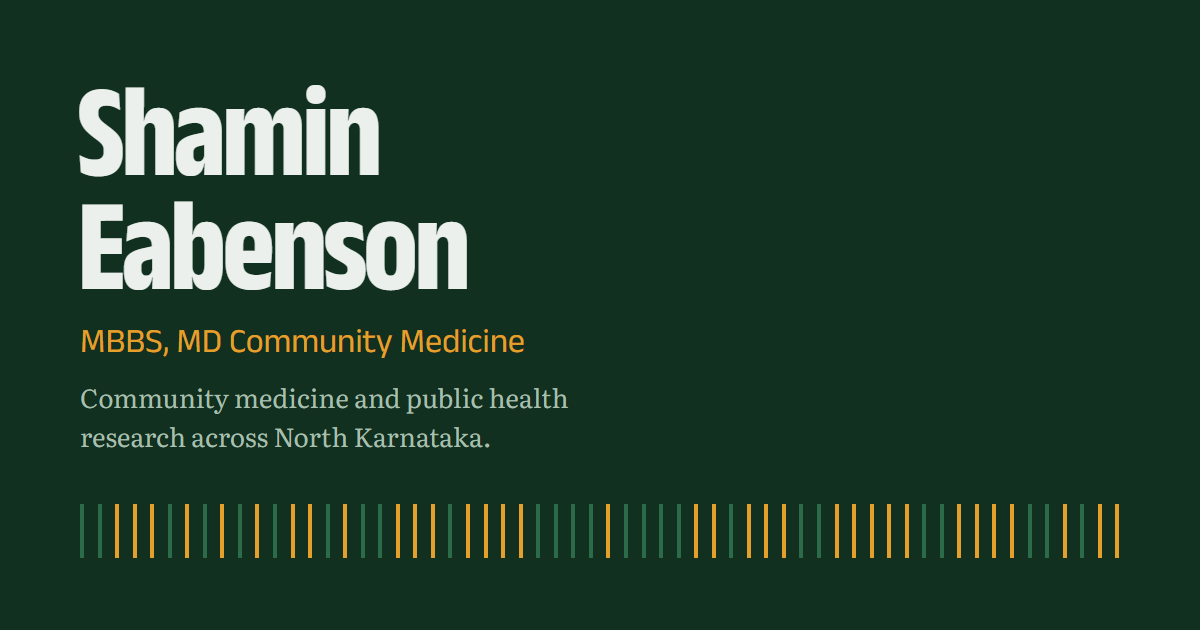
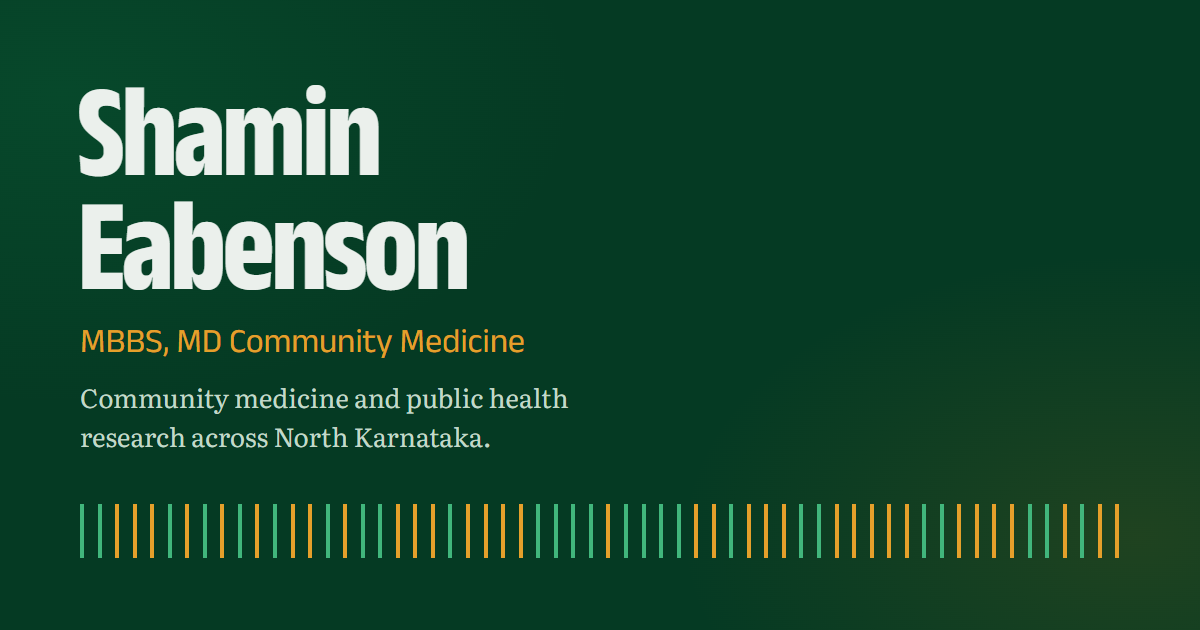
Richer royal green, per the client's 4 Oct review
He approved the green but asked for it saturated rather than muted — "royal
green, brilliant green, Rolex green". --field-deep goes #12301F to #053A23 and
--field #1E4A32 to #00663D, a shade brighter than Rolex's own #006039, which is
where it still clears 4.5:1 as a link colour on every pale ground.

Brightening the field broke three pairs that had been passing, and exposed a
fourth that had been failing unnoticed:

- --on-dark-soft fell to 3.6:1 on the new --field. Lightened to #C2D9C9.
- The aurora blooms washed marigold down to 3.7:1. Both reduced to 0.16.
- The unmarked tally strokes were already failing at 2.25:1 against the hero
  before this change, under the 3:1 a graphical object needs — and those strokes
  are the denominator of the 195, so they carry meaning. A single stroke colour
  cannot fix it, because the bloom is the same hue as the stroke and brightening
  the ground always erodes it. The strokes now take their colour from the ground
  the way the marked ones already did: --stroke-dark #41B67C on dark grounds,
  --field-lift on pale ones. 4.16:1 at the bloom's brightest point.

All 34 pairs re-measured, including every text and mark over each bloom at full
strength. Favicon, apple-touch-icon, og.png and theme-color regenerated, since
all three are built from the palette.

Also logs the rest of that review in REQUIREMENTS.md: he wants a dedicated
profiles page with screenshots of Google Scholar, ResearchGate and LinkedIn,
[…]

diff --git a/src/styles/tokens.css b/src/styles/tokens.css
@@ -12,16 +12,27 @@
    then this file alone. It has already changed once: the client
    has two other sites in blue, so this one is green.
 
-   Every pair below was measured, not eyeballed. Lowest ratios:
-   body 13.7:1, secondary prose 5.7:1, small meta 4.6:1,
-   graphical marks 3.6:1. Re-measure after any colour change.
+   All 34 pairs were measured, not eyeballed, including text and marks over
+   the aurora bloom at its brightest. Lowest ratios: body 11.1:1, secondary
+   4.7:1, small meta 4.6:1, graphical marks 3.2:1.
+   Re-measure every pair after any colour change — brightening the field
+   broke three of them last time.
    ============================================================ */
 :root {
   /* --- colour ------------------------------------------------ */
-  /* Primary hue — green. Carries the masthead, hero and footer. */
-  --field-deep: #12301f; /* hero, masthead, footer */
-  --field: #1e4a32; /* structural field, row hovers, buttons */
-  --field-lift: #2c6b49; /* unmarked tally strokes, hover lift */
+  /* Primary hue — green. Carries the masthead, hero and footer.
+     Saturated rather than muted, at the client's request: he asked for a
+     royal / Rolex green, not a forest one. #00663D sits a shade brighter
+     than Rolex's own #006039, which is where it still clears 4.5:1. */
+  --field-deep: #053a23; /* hero, masthead, footer */
+  --field: #00663d; /* structural field, row hovers, buttons */
+
+  /* Tally strokes need a different value on each ground, and the dark one
+     has to survive the aurora bloom passing beneath it. A single value
+     cannot: the bloom is the same hue as the stroke, so brightening the
+     ground always erodes it. Measured at the bloom's brightest point. */
+  --field-lift: #119455; /* unmarked stroke on PALE grounds — 3.2:1 on mint */
+  --stroke-dark: #41b67c; /* unmarked stroke on DARK grounds — 4.2:1 under bloom */
 
   /* Pale grounds. Light sections alternate between these instead of every
      one being identical plaster. */
@@ -40,7 +51,9 @@
   --text-mute: #586b61; /* 4.6:1 on the DARKEST pale ground (mint), so it
                             clears 4.5 on all four: mint, sand, plaster, raised */
   --on-dark: #ebf0ec;
-  --on-dark-soft: #a6bfae; /* secondary text on the green grounds */
+  --on-dark-soft: #c2d9c9; /* secondary on the green grounds — lightened when
+                              the field brightened; the old #A6BFAE fell to
+                              3.6:1 on the new --field */
   --rule: #cdd0c7;
   --rule-soft: #dcdfd6;
 
@@ -97,8 +110,8 @@
 
   /* Shadows are tinted with the page's own green rather than neutral black,
      which is what stops them reading as the default grey drop shadow. */
-  --shadow: 0 1px 2px rgba(18, 48, 31, 0.04), 0 10px 28px -14px rgba(18, 48, 31, 0.16);
-  --shadow-lift: 0 2px 4px rgba(18, 48, 31, 0.05), 0 18px 40px -16px rgba(18, 48, 31, 0.22);
+  --shadow: 0 1px 2px rgba(5, 58, 35, 0.05), 0 10px 28px -14px rgba(5, 58, 35, 0.18);
+  --shadow-lift: 0 2px 4px rgba(5, 58, 35, 0.06), 0 18px 40px -16px rgba(5, 58, 35, 0.24);
 
   /* --- motion ------------------------------------------------ */
   /* One orchestrated page-load moment. Nothing animates on scroll. */

diff --git a/src/styles/global.css b/src/styles/global.css
@@ -189,12 +189,14 @@ p {
   /* Opacity is capped by contrast, not by taste. At 0.55 the centre of the
      green bloom lightened the ground enough to drop marigold text to 4.15:1,
      under the 4.5 minimum — and marigold carries his post-nominals and the
-     "111 of the 195" figure. At 0.36 / 0.22 the worst point holds 4.85:1.
-     Raising these values means re-checking that number by hand — automated
-     contrast tools read background-color and cannot see a gradient. */
+     "111 of the 195" figure. The greens brightened, so these came down to
+     0.16: at the bloom's brightest point marigold holds 4.77:1 and the
+     unmarked tally strokes 4.16:1. Raising them means re-checking both by
+     hand — automated contrast tools read background-color and cannot see a
+     gradient. */
   background:
-    radial-gradient(38% 44% at 22% 28%, rgba(44, 107, 73, 0.36), transparent 70%),
-    radial-gradient(34% 40% at 78% 72%, rgba(169, 112, 15, 0.22), transparent 70%);
+    radial-gradient(38% 44% at 22% 28%, rgba(17, 148, 85, 0.16), transparent 70%),
+    radial-gradient(34% 40% at 78% 72%, rgba(169, 112, 15, 0.16), transparent 70%);
   will-change: transform;
 }
 @media (prefers-reduced-motion: no-preference) {

diff --git a/REQUIREMENTS.md b/REQUIREMENTS.md
@@ -5,7 +5,7 @@ something new comes back from the client, move it out of §3 and into whichever
 section it unblocks. This file and `CLAUDE.md` are the project's memory — if a
 decision is not written down in one of them, it did not happen.
 
-Last updated: **19 September 2026**
+Last updated: **4 October 2026**
 Status: **deployed to Vercel, DNS pending client confirmation**
 
 ---
@@ -31,6 +31,9 @@ Status: **deployed to Vercel, DNS pending client confirmation**
 
 ## 2. Content and design
 
+- [x] **Royal green** — client approved the green but asked for it richer
+      ("royal / brilliant / Rolex green", WhatsApp 4 Oct). Now `#053A23` /
+      `#00663D`. Brand assets regenerated to match — *4 Oct 2026*
 - [x] Pale palette — green is the only dark field; light sections alternate
       plaster, mint, sand and clay. Soft radii, tinted shadows, and a very slow
       ambient drift behind the dark bands — *19 Sep 2026*
@@ -50,6 +53,27 @@ Status: **deployed to Vercel, DNS pending client confirmation**
 - [ ] `/clinical` read by someone familiar with NMC advertising rules before launch.
 - [ ] `/privacy` read and signed off by Dr Eabenson, ideally checked against the
       DPDP Act.
+
+## 2b. New, from the client's 4 Oct WhatsApp review
+
+He approved the colour, the link sharing, the publication linking and the
+integration. Three requests came with it:
+
+- [ ] **A dedicated profiles page, with screenshots.** *"The website links etc
+      should be prominent — like Google Scholar, ResearchGate, LinkedIn etc.
+      with screen shots of those pages in a separate page, so that the look
+      improves."* The links currently live in the footer and on the CV only.
+      Two things to settle before building it: screenshots of third-party
+      profile pages go stale the moment he publishes again, so they need either
+      a refresh routine or a note of the date captured; and someone needs to
+      take them — they are his logged-in profile pages, not ours to fetch.
+      Ask whether live-looking screenshots are wanted, or just a strong card
+      per profile with its logo and current metrics typed in.
+- [ ] **"Fonts can be changed in some instances."** Too vague to act on without
+      guessing. Ask him which pages or which text — a heading somewhere he
+      disliked, or the serif body generally?
+- [ ] **"Final looks should be superb."** Not actionable as written. Worth
+      turning into specifics the next time he is on a call.
 
 ## 3. Waiting on the client
 

diff --git a/CLAUDE.md b/CLAUDE.md
@@ -179,15 +179,23 @@ enquiry form; a real booking system needs a decision (§6).
    identity each have one home. Prose never hardcodes a number that data can
    derive — this rule has already been broken twice and both times shipped a
    wrong figure ("Seven papers" when there were fourteen).
-6. **Colour is not blue, and the palette is light.** The client already has two
-   sites in blue and rejected it here. A dark violet second hue was then tried
-   and also rejected — he wants it lighter. Green is now the only dark field;
-   everything else is a pale ground (plaster, mint, sand, clay). Colour tokens are
-   named for their role (`--field-deep`, `--field`, `--field-lift`), never their
-   hue, so another change is one file. Marigold stays for data marks only.
-7. **Re-measure contrast after any colour change.** All fourteen pairs were
-   checked against WCAG 2.2 when the palette moved to green; the lowest is
-   4.6:1 for small meta text and 3.6:1 for graphical marks.
+6. **Colour is a royal green, and the palette is light.** Three rounds got here:
+   blue rejected (he has two other sites in blue), then a dark violet second hue
+   rejected (wanted lighter), then the muted forest green approved but asked to
+   be richer — *"Can be royal green / Brilliant green etc. / Rolex green etc"*,
+   WhatsApp, 4 Oct 2026. Now `--field-deep #053A23` / `--field #00663D`, a shade
+   brighter than Rolex's own #006039, which is where it still clears 4.5:1.
+   Green is the only dark field; everything else is a pale ground (plaster, mint,
+   sand, clay). Tokens are named for their role, never their hue, so another
+   change is one file. Marigold stays for data marks only.
+7. **Re-measure contrast after any colour change — every pair, not the ones you
+   think changed.** Brightening the green to royal broke three pairs that had
+   been fine, and exposed a fourth that had been failing unnoticed: the unmarked
+   tally strokes sat at 2.25:1 on the hero, under the 3:1 a graphical object
+   needs, and those strokes are the denominator of the 195. All 34 pairs now
+   pass, including text and marks measured over the aurora bloom at its
+   brightest — which automated tools cannot see, because they read
+   `background-color` and a gradient is not one.
 
 ---
 

diff --git a/README.md b/README.md
@@ -58,6 +58,11 @@ second document to drift out of step.
 - **The tally wave animates height because height carries no data here.** Every
   stroke is the same height; the encoding is colour and count. Animating the
   size of a mark whose size meant something would misstate the figure.
+- **Tally strokes take their colour from the ground, both marked and unmarked.**
+  The unmarked ones must, because the aurora bloom is the same hue as the stroke:
+  on a dark ground the bloom brightening beneath them dropped them to 2.1:1,
+  under the 3:1 a graphical object needs. `--stroke-dark` on dark grounds,
+  `--field-lift` on pale ones.
 - **Measured cost, 4x CPU throttle at 390px:** 61fps idle, 56 with the wave,
   59 with the aurora, 54 with both. `transform` only, so no layout; no
   `will-change` on the 195 strokes, which would cost more in memory than it
@@ -85,8 +90,9 @@ second document to drift out of step.
   ground it sits on. At 0.55 opacity it dropped marigold text to 4.15:1, under
   the minimum. It is 0.36 / 0.30 now, holding 4.8:1 at the brightest point.
   Automated contrast checks read `backgroundColor` and cannot see a gradient —
-  if you raise those values, re-check by hand. The blooms are green and amber;
-  there is no violet anywhere in the build.
+  if you raise those values, re-check by hand. At the royal green the blooms came
+  down to 0.16/0.16, holding marigold at 4.77:1 and the tally strokes at 4.16:1.
+  The blooms are green and amber; there is no violet anywhere in the build.
 - **A DOI is only linked if it resolves.** `doiUnresolved: true` renders the
   identifier as text instead of linking to a 404. All DOIs were checked against
   doi.org; re-check when adding papers.
